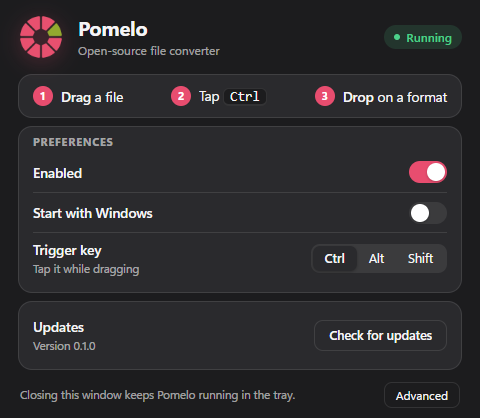
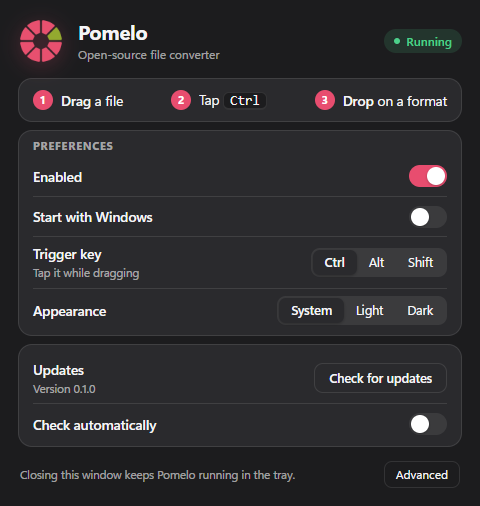
Add an Appearance setting with System, Light and Dark (#5)
Settings has a new Appearance row. System follows Windows as before;
Light and Dark apply to every Pomelo window through the native theme, so
the wheel, toast, settings and downloader pages switch with no extra
styles. A missing or unknown value is treated as System.

The Settings window's top and bottom padding are now equal, and the last
row of a card no longer has extra space under it. The settings
screenshots and the README show the new row, and the README links to the
website at the top.

diff --git a/test/ui/settings-shot.js b/test/ui/settings-shot.js
@@ -24,7 +24,7 @@ const downloads = [];
 registerSettingsIpc({
   store: { get: () => current.settings, set: (patch) => { current = { ...current, settings: { ...current.settings, ...patch } }; return current.settings; } },
   getState: () => ({ engines: current.engines, version: '0.1.0', os: 'Windows 10.0.26300 x64' }),
-  onChange: () => {},
+  onChange: (patch) => { if (patch.theme) nativeTheme.themeSource = patch.theme; },
   logPath: () => path.join(out, 'debug.log'),
 });
 const installs = [];
@@ -176,6 +176,27 @@ app.whenReady().then(async () => {
     uninstallAnswer = { ok: false };
     await js(win, `document.getElementById('advToggle').click()`);
     await sleep(300);
+    win.close();
+    await sleep(300);
+  }
+
+  console.log('appearance: System, Light or Dark');
+  {
+    const win = await fresh('all-ready', 'dark');
+    const checked = () => js(win, `[...document.querySelectorAll('#theme button')].filter((b) => b.getAttribute('aria-checked') === 'true').map((b) => b.dataset.theme).join()`);
+    const isDark = () => js(win, `matchMedia('(prefers-color-scheme: dark)').matches`);
+    check('with no theme stored, System is the selected option', (await checked()) === 'system', await checked());
+    await shot(win, 'settings-appearance-default.png');
+    for (const [theme, dark] of [['light', false], ['dark', true]]) {
+      await js(win, `document.querySelector('#theme [data-theme="${theme}"]').click()`);
+      await sleep(400);
+      check(`choosing ${theme} stores it, marks only that button and switches the page`, current.settings.theme === theme && (await checked()) === theme && (await isDark()) === dark, `${current.settings.theme} | ${await checked()} | dark: ${await isDark()}`);
+      await shot(win, `settings-appearance-${theme}.png`);
+    }
+    await js(win, `document.querySelector('#theme [data-theme="system"]').click()`);
+    await sleep(400);
+    check('choosing System stores it and marks only that button', current.settings.theme === 'system' && (await checked()) === 'system');
+    await shot(win, 'settings-appearance-system.png');
     win.close();
     await sleep(300);
   }

diff --git a/src/features/settings/ui/settings.css b/src/features/settings/ui/settings.css
@@ -17,7 +17,7 @@ html, body { margin: 0; width: 100%; background: var(--bg); color: var(--txt); o
 ::-webkit-scrollbar-thumb { background: var(--muted); opacity: .5; border-radius: 99px; border: 3px solid var(--bg); background-clip: padding-box; min-height: 40px; }
 ::-webkit-scrollbar-thumb:hover { background: var(--accent); background-clip: padding-box; }
 body { font: 13.5px/1.35 var(--font); -webkit-font-smoothing: antialiased; }
-#app { padding: 14px 18px 10px; }
+#app { padding: 18px; }
 p { margin: 0; }
 b { font-weight: 600; }
 .muted { color: var(--muted); font-size: 12px; }
@@ -36,7 +36,8 @@ h1 { margin: 0 0 2px; font-size: 20px; letter-spacing: -.01em; line-height: 1.2;
 .status.off { background: var(--off-bg); color: var(--muted); }
 
 /* cards */
-.card { background: var(--card); border: 1px solid var(--line); border-radius: 14px; padding: 8px 14px; margin-bottom: 8px; }
+.card { background: var(--card); border: 1px solid var(--line); border-radius: 14px; padding: 8px 14px 3px; margin-bottom: 8px; }
+details.card { padding-bottom: 8px; }
 h2 { margin: 0 0 2px; font-size: 11px; font-weight: 700; text-transform: uppercase; letter-spacing: .07em; color: var(--muted); }
 
 /* how it works */
@@ -104,7 +105,7 @@ span.chip.off { background: none; border: 1px solid var(--line); color: var(--mu
 #versionLine.new { color: var(--txt); font-weight: 600; }
 
 /* footer */
-footer { display: flex; align-items: center; justify-content: space-between; gap: 12px; padding: 4px 2px 0; }
+footer { display: flex; align-items: center; justify-content: space-between; gap: 12px; padding: 6px 2px 0; }
 footer .muted { font-size: 11.5px; }
 .ghost { border: 1px solid var(--line); background: none; padding: 4px 11px; border-radius: 8px; cursor: pointer; font-size: 12px; }
 .ghost:hover { background: var(--off-bg); }

diff --git a/src/features/settings/ui/settings.js b/src/features/settings/ui/settings.js
@@ -58,6 +58,8 @@ function render() {
   $('autoUpdate').checked = !!settings.autoUpdate;
   $('keycap').textContent = settings.key;
   for (const b of document.querySelectorAll('#key button')) b.setAttribute('aria-checked', String(b.dataset.key === settings.key));
+  const theme = ['light', 'dark'].includes(settings.theme) ? settings.theme : 'system';
+  for (const b of document.querySelectorAll('#theme button')) b.setAttribute('aria-checked', String(b.dataset.theme === theme));
   $('status').classList.toggle('off', !settings.enabled);
   $('statusText').textContent = settings.enabled ? 'Running' : 'Paused';
 
@@ -188,3 +190,4 @@ $('autoUpdate').onchange = async (e) => {
   if (e.target.checked && update.state !== 'available') checkNow();    // switching it on looks straight away, so the answer is on screen
 };
 $('key').onclick = (e) => { const k = e.target.dataset?.key; if (k) save({ key: k }); };
+$('theme').onclick = (e) => { const t = e.target.dataset?.theme; if (t) save({ theme: t }); };

diff --git a/src/app/main.js b/src/app/main.js
@@ -2,7 +2,7 @@
 // Pomelo's entry point (package.json "main"): starts the features and connects them. Features never import each other; what one
 // needs from another is handed in here.
 const path = require('path');
-const { app } = require('electron');
+const { app, nativeTheme } = require('electron');
 const log = require('#shared/node/log');
 const { userDataFile } = require('#shared/electron/user-data');
 
@@ -57,6 +57,7 @@ function applySettings() {
   trigger.setKey(s.key);
   helper.setKey(s.key);
   trigger.setEnabled(s.enabled);
+  nativeTheme.themeSource = ['light', 'dark'].includes(s.theme) ? s.theme : 'system';
   setLoginItem(s.openAtLogin);
   tray?.refreshMenu();
 }

diff --git a/src/features/settings/ui/settings.html b/src/features/settings/ui/settings.html
@@ -42,6 +42,12 @@
           <button data-key="ctrl" role="radio">Ctrl</button><button data-key="alt" role="radio">Alt</button><button data-key="shift" role="radio">Shift</button>
         </div>
       </div>
+      <div class="row">
+        <span class="label"><b>Appearance</b></span>
+        <div class="seg" id="theme" role="radiogroup" aria-label="Appearance">
+          <button data-theme="system" role="radio">System</button><button data-theme="light" role="radio">Light</button><button data-theme="dark" role="radio">Dark</button>
+        </div>
+      </div>
     </section>
 
     <section class="card" id="updates" aria-live="polite">

diff --git a/src/features/settings/store.js b/src/features/settings/store.js
@@ -5,7 +5,7 @@ const path = require('path');
 
 // autoUpdate is off by default: Pomelo goes online only when asked. lastUpdateCheck / updateNotified belong to the update checker
 // (features/updates/auto-check.js).
-const DEFAULTS = { enabled: true, key: 'ctrl', openAtLogin: true, advanced: false, autoUpdate: false, lastUpdateCheck: 0, updateNotified: '' };
+const DEFAULTS = { enabled: true, key: 'ctrl', openAtLogin: true, advanced: false, theme: 'system', autoUpdate: false, lastUpdateCheck: 0, updateNotified: '' };
 
 function createStore(file) {
   let cache = null;

diff --git a/README.md b/README.md
@@ -10,6 +10,12 @@
 </p>
 
 <p align="center">
+  <a href="https://pomelo.swymble.com"><b>Visit the website</b></a>
+  &nbsp;·&nbsp;
+  <a href="https://github.com/zzvimalzz/pomelo/releases/latest">Download</a>
+</p>
+
+<p align="center">
   <a href="LICENSE"><img alt="License: AGPL v3+" src="https://img.shields.io/badge/license-AGPL--3.0--or--later-blue.svg"></a>
   <img alt="Windows 10 and 11" src="https://img.shields.io/badge/Windows-10%20%7C%2011-0078d6.svg">
   <img alt="100% offline" src="https://img.shields.io/badge/100%25-offline-2ea44f.svg">
@@ -30,7 +36,7 @@
 2. **Tap Ctrl** while dragging. A wheel of formats opens at the cursor.
 3. **Drop** on a segment. The converted copy is saved next to the original.
 
-Esc cancels. The trigger key (Ctrl, Alt or Shift) can be changed in Settings. Progress and results show in small toasts in the bottom-right corner, never over your work. Click a finished toast to show the file, or the ✕ in a progress ring to cancel (partial files are deleted).
+Esc cancels. The trigger key (Ctrl, Alt or Shift) and the appearance (System, Light or Dark) can be changed in Settings. Progress and results show in small toasts in the bottom-right corner, never over your work. Click a finished toast to show the file, or the ✕ in a progress ring to cancel (partial files are deleted).
 
 ## Screenshots
 
@@ -49,7 +55,7 @@ Esc cancels. The trigger key (Ctrl, Alt or Shift) can be changed in Settings. Pr
         <source media="(prefers-color-scheme: dark)" srcset="assets/screenshots/settings-dark.png">
         <img src="assets/screenshots/settings-light.png" alt="The Pomelo settings window" width="360">
       </picture>
-      <br><sub>Settings follow your Windows theme. Pomelo lives in the tray</sub>
+      <br><sub>Settings can follow your Windows theme or stay light or dark. Pomelo lives in the tray</sub>
     </td>
   </tr>
 </table>

diff --git a/src/features/settings/README.md b/src/features/settings/README.md
@@ -8,6 +8,8 @@ What the user can set, where it is kept, and the Settings window.
 
 `settings.window.js` opens the window. It reports its natural height to the main process (`fit`), which sizes the window to its content, so nothing scrolls unless the screen is too small. `settings.ipc.js` answers the page: `settings:get` returns the stored settings together with the state other features own (engines, an install in progress, the version, an update that was found, whether this start followed an update), which the app supplies through `getState()`; `settings:set` stores a patch and calls `onChange(patch)` so the app can apply it.
 
+The `theme` setting (`system`, `light` or `dark`) is applied in `src/app/main.js` through `nativeTheme.themeSource`, so the wheel, toast, settings and downloader pages all switch through their existing `prefers-color-scheme` rules. An unknown value falls back to `system`.
+
 The page (`ui/`) shows the everyday switches, and under Advanced the engines with their Install buttons, the log, diagnostics and Uninstall. Install, update and uninstall messages belong to their own features.
 
 ## Files
@@ -21,7 +23,7 @@ The page (`ui/`) shows the everyday switches, and under Advanced the engines wit
 
 ## Contracts
 
-- The keys of `settings.json`: `enabled`, `key`, `openAtLogin`, `advanced`, `autoUpdate`, `lastUpdateCheck`, `updateNotified`.
+- The keys of `settings.json`: `enabled`, `key`, `openAtLogin`, `advanced`, `theme`, `autoUpdate`, `lastUpdateCheck`, `updateNotified`.
 - IPC channels: `settings:get`, `settings:set`, `settings:fit`, `app:copy`, `app:open-logs`.
 - Not validated: `settings:set` accepts any patch. A bad `key` reaches the input helper, and an empty one throws when the tray menu is built.
 

diff --git a/CHANGELOG.md b/CHANGELOG.md
@@ -4,6 +4,9 @@ All notable changes to Pomelo are listed here. The format follows [Keep a Change
 
 ## [Unreleased]
 
+### Added
+- Settings has an Appearance control with System, Light and Dark. System follows Windows, as before; Light and Dark apply to every Pomelo window.
+
 ### Changed
 - **A cleaner update.** With **Check automatically** on, the toast now says "Update your Pomelo to v...", and clicking it opens Settings with the **Download update** button showing. Pressing the button opens a small **Pomelo Downloader** window with the stage, the percentage, the size and time left, and a Cancel button; you can minimise it. The installer's own window no longer appears. When the update is in, Pomelo reopens by itself (with Settings open again if you had it open) and a toast says it is now on the new version.
 - An update that adds an engine to the PDF components you already have (as 0.1.3 did with OCR) now adds it for you, in the same window, instead of leaving you to press Install in Settings.
